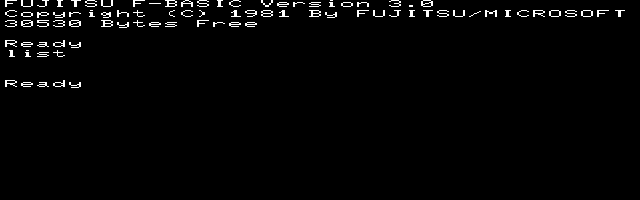
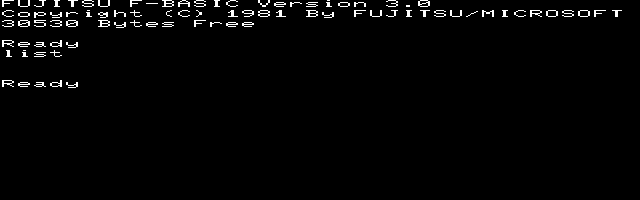
bless: eleven screenshots move, not one counter
Every row of the gate differs on SCREEN and no row differs on CNT --
counters.tsv comes out byte-identical and is not even in this commit. That is
the evidence that 22c586a and dcbf85c are display-path changes and nothing else:
the blanking fix deliberately leaves HBLANKn, and therefore SCASSEL and the
sub-CPU VRAM arbitration, exactly where they were.

Eight FM-7 rows and av-demo/av-wizardry4 move by the corrected raster phase: the
picture used to sit three pixels right of where it belongs in 640 mode and two
in 320. Checked against 77AVEMU rather than accepted on faith -- the new
boot-basic matches the reference F-BASIC banner on 99.8% of pixels at zero
offset where the old one peaked at dx=+3, and av-wizardry4 on 99.1% where the
old one peaked at dx=+3 too.

av-kohakuiro is the row worth looking at if this bless ever needs
re-justifying, and it is the uncomfortable one: **the old reference was a
picture of the bug.** It was chosen for the gate on "81% coverage, 18 colours --
the strongest exercise of the 320-mode plane path outside the demo", and that
scene existed only because the analog palette was stuck at its power-on identity
ramp. 77AVEMU renders this disk BLACK from its frame 500 to the end of a 30 M
step run. The new reference matches it on 100.0% of pixels with zero non-black
pixels; the old one had 104,246 against the reference's none.

So the row is now right and nearly worthless as a test, and the gate is one AV
[…]

diff --git a/TODO.md b/TODO.md
@@ -12,9 +12,13 @@ Reference material: `docs/REFERENCE.md` (read first), `docs/IO_MAP.md`,
 
 **Where it stands.** The **eleven-row** gate is green — `./run_tests.sh` in
 `vsim/` compares screenshots *and* counters against `shots-ref/`. FM-7 boots,
-Thexder runs, OS-9 reaches its shell. On the FM77AV side the 2019 demo matches
-77AVEMU plane-for-plane, Ys boots and draws, and **four titles that rendered
-nothing now render game art** (Deep Forest, both Luxsor disks, Psy-O-Blade).
+Thexder runs, OS-9 reaches its shell. On the FM77AV side **Deep Forest now
+matches 77AVEMU on 100.0% of pixels and the 2019 demo on 99.9%**, measured
+rather than eyeballed, after correcting a display phase that had the whole
+picture sitting three pixels right of where it belonged and finding that the
+analog palette had never accepted a write in its life. Ys boots and draws, and
+four titles that rendered nothing now render game art (Deep Forest, both Luxsor
+disks, Psy-O-Blade).
 
 **It fits and closes timing.** 23,293 / 41,910 ALMs (56%), 516 / 553 M10K
 (93%), positive slack in all five corners, `output_files/FM-7_MiSTer.rbf` built
@@ -39,13 +43,16 @@ the chip's real I/O ports. **The combined work ships as GPLv3** — see
      **Test an FM77AV title**, not an FM-7 one: only the AV routes the gameport
      through `$FD15`/`$FD16`. Twenty AV titles provably poll it; Dragon Buster is
      the pick because it already rendered before any of this work.
-2. **The AV rendering artifacts.** The four rescued titles draw with banding,
-   stripes and wrong palette. Four suspects are already eliminated — read that
-   list before starting, it will save a day.
+2. **The gate lost an AV row's worth of coverage.** `av-kohakuiro`'s reference
+   was a picture of the dead palette; the corrected render is a black screen
+   that matches 77AVEMU exactly and tests almost nothing. Replace it with a
+   title that genuinely renders — see below.
 3. **Six AV titles still render nothing**, in four distinct shapes, all recorded
    below rather than left to be re-derived.
 4. **The FM half of the YM2203 has never been compared to anything**, and its
    timers/`$FD17` IRQ path is only as good as one title's use of it.
+5. **The `$FD37` CPU access mask does not gate VRAM at all** — see below. No
+   title in hand has been shown to need it, but it is a real hole.
 
 **Ask the reference before theorising.** `refs/local/` holds a built 77AVEMU and
 its ROMs, gitignored but persistent, so no rebuild is needed:
@@ -368,51 +375,130 @@ than anything title-specific:
 | Psy-O-Blade | 3841 | **24536** — character portraits |
 | Luxsor (Disk 2) | 3790 | **17023** |
 
-with Daiva Story 2 (7510) and Silpheed (7410) newly partial. **The renders are
-not clean** — colour banding on Deep Forest, vertical stripes on Psy-O-Blade,
-wrong palette on Luxsor — so there is at least one video-path fault left. Diff
-the VRAM against the reference (`docs/TESTING.md`) rather than guessing at it.
+with Daiva Story 2 (7510) and Silpheed (7410) newly partial.
+
+(Those byte counts predate the display-phase and palette fixes below. All four
+still render; Deep Forest's shot at a fixed 2000 frames now depends on where its
+palette fade has got to, so compare against the reference rather than against
+this table. The sweep has not been re-run since.)
 
 Six remain blank: Woody Poco, Shounen Mike, Pro Yakyuu Fan, FM77AV demo, In the
 Dream, Little Box.
 
-### The rendering artifacts are in the sub-CPU VRAM write path
+### The rendering artifacts were the display phase and a dead palette
 
-The four rescued titles draw, but with banding, stripes and wrong palette. A
-VRAM diff against the reference (`FM77AV_VRAM_DUMP` / `FM7_VRAM_DUMP`, method in
-`docs/TESTING.md`) on Deep Forest, **with both machines on the same title screen
-so the comparison is legitimate** (trap 20):
+Two faults, both found by comparing against 77AVEMU in **palette-nibble space**
+rather than by eye. (Byte-exact pixel comparison is useless between the two:
+`PAL.v` expands a 4-bit gun level with CSP's `{n,$F}` and 77AVEMU replicates the
+nibble, so every non-black pixel differs. Both keep the level in the high
+nibble, so `>>4` on each side makes the comparison meaningful.)
 
-* all twelve 8 KB slices differ
-* ours has consistently **more** non-zero bytes than the reference — bank0 B0
-  3504 vs 2548, bank1 R1 7444 vs 6360, ~15% more throughout
+1. **The whole picture sat to the right of where it belonged** — three pixels in
+   640 mode, two in 320. `HBLANK` came straight off MB60H010's `xx`, but a pixel
+   arrives several stages later: raster address, CRTRAM's synchronous read,
+   `SFTLODn`'s deliberate settle delay, then PAL. The two modes differ by one
+   because their paths do: 640 goes `SFT -> qh -> grb`, 320 goes
+   `shift-register -> palette RAM output`. Fixed by delaying the display
+   blanking to match, which leaves `HBLANKn` (and so `SCASSEL`, the VRAM
+   arbitration) untouched: **every counter in the eleven-row gate is byte-
+   identical across the change and only screenshots moved.**
+2. **The FM77AV analog palette never took a single write.** `PLTREGn` is the
+   schematic decode for `$fd38-$fd3f`, and `PAL.v` asked for
+   `~PLTREGn && ~MADDRBUS[3]` — `MADDRBUS[3]` high and low at once. The table
+   stayed at its power-on identity ramp for the life of the AV support.
 
-So we are setting pixels that should not be set, in every plane and both banks.
+Measured, not inferred. Pixels matching 77AVEMU, before → after, comparing at
+points where both machines are showing the same thing:
 
-**Four suspects are already eliminated — do not re-check them:**
+| title | mode | before | after |
+|---|---|---|---|
+| Deep Forest | 320 | 20.8% | **100.0%** (63991 / 64000) |
+| 2019 demo | 320 | 10.8% | **99.9%** |
+| Wizardry IV | 640 | 90.7% | **99.1%** |
+| F-BASIC banner (FM-7) | 640 | 97.5% | **99.8%** |
+| Psy-O-Blade | 640 | — | **96.6%** |
+
+and, for the phase alone, a third measurement that involves no reference at all:
+`tools/raster_phase.py` reconciles the core's own VRAM with its own screenshot,
+and went from peaking one column out to 99.1% at zero offset.
+
+**The constant was nearly wrong by one.** The first offset sweep ran ±2 and
+reported the 640-mode error as 2, because the search window ended exactly where
+the answer was. Widening it to ±5 showed a sharp peak at 3. Size the window
+from what you are willing to be wrong about.
+
+Why the palette bug survived so long is worth keeping: a 4096-colour photograph
+is normally displayed through very nearly the identity ramp, so Deep Forest,
+Luxsor and Psy-O-Blade all looked *plausible* with the table dead. Only software
+that programs a genuinely different map exposes it — the demo's colour chart
+does, and it rendered as the raw plane code.
+
+**The earlier "we set pixels that should not be set, ~15% more non-zero bytes in
+every plane" was wrong**, and worth recording as the trap it was: our VRAM dump
+was taken at a point where the reference had already drawn the "DEEP FOREST"
+logo — a black box over the landscape — and we had not. The extra bytes were the
+landscape the reference had painted over. The giveaway was that the mismatching
+rows were 101-138 and nothing else: exactly the logo box, not the "every plane
+and both banks" the byte counts suggested.
+
+**Still eliminated, do not re-check:**
 
 * **The MB61VH010 drawing ALU.** `--trace-av-video` over 200 frames: 9356
   `SUBVRAM`, **0 `ALUW`, 0 `AVVRAM`**. Deep Forest never uses it.
-* **The 320-mode sub-CPU address transform.** `MB60H010.v:112` `SUBRA_320`
-  preserves bit 13 and wraps the low 13 bits, which is the same shape as
-  `AVMEM.v`'s `vram_addr_320` for the main aperture. Correct as written.
+* **The 320-mode sub-CPU address transform.** `MB60H010.v` `SUBRA_320` preserves
+  bit 13 and wraps the low 13 bits, matching 77AVEMU's `TransformVRAMAddress`
+  (`fm77avcrtc.h:219`) case by case.
 * **The picture width.** The reference emits 320x200 PNGs in 320 mode; this core
-  renders the same mode pixel-doubled to 640x200 by design. Not a fault.
-* **"The title never sets 320 mode".** It does — `$fd12 <- $40` at frame 202,
-  `$00` at 338, `$40` again at 344, so 320 mode is on at the end. A 200-frame
-  sample showed zero writes and was simply too short a window (trap 20 again).
+  renders the same mode pixel-doubled to 640x200 by design. Not a fault, and the
+  doubled pair provably never disagrees.
 
-What is left: the scroll offset (`VOFFSET`), the plane/bank selection, or the
-possibility that the two dumps are at different points of an animated title —
-which has to be excluded first, since "more bytes" is also what "further along"
-looks like.
+**Deep Forest was never "stuck", either.** With the palette dead it snapped to
+full brightness the instant VRAM was drawn and then sat unchanged from frame 900
+to 1500, which read as a stall. It is in fact fading in through the palette,
+synchronised to `$fd12` vblank polls at `pc=$622a`: black at 900, half up at
+1200, complete at 1500, and that frame is the 100.0% row above. What remains
+open is only the title logo, which the reference draws between its frames 1200
+and 2100 and we do not.
 
-`--trace-av-video` says where they come from, and it rules out most of the video
-back end: over 200 frames Deep Forest issues **9356 `SUBVRAM` writes, 0 `ALUW`,
-0 `AVVRAM`**. It draws entirely through the sub CPU's own VRAM writes — no
-drawing ALU, no main-CPU MMR aperture. So the fault is in the sub-CPU VRAM write
-path: the 320-mode address transform, the `$FD37` plane-access mask, or the
-scroll offset. It is **not** the MB61VH010, which is where the eye is drawn.
+**`av-kohakuiro`'s blessed screenshot was a picture of the bug, and its
+replacement is a black screen.** It was picked for the gate on "81% coverage, 18
+colours — the strongest exercise of the 320-mode plane path outside the demo".
+That picture only existed because the palette was stuck at the identity ramp:
+77AVEMU renders this disk black from its frame 500 to the end of a 30 M-step
+run, and our new shot matches it on **100.0%** of pixels with zero non-black
+pixels, where the old blessed one had 104,246 against the reference's none.
+
+So the row is now correct and nearly worthless as a test. **The gate needs a
+different second AV title** — one that renders real graphics *and* is stable at
+the shot frame with a live palette. Deep Forest around frame 1500 and
+Psy-O-Blade are the candidates; both were measured against 77AVEMU above. Pick
+one by re-checking it at two frame counts first, which is the rule that put
+Kohakuiro here in the first place.
+
+**Luxsor is the one still visibly wrong.** It renders its pyramid scene in
+garish green and red at frame 1980, and no reference frame in a 30 M-step run
+matches it above 5.6%. Treat that number with care, though — the reference is on
+a completely different scene (a dialogue screen) by then, so the two are not
+aligned and the comparison is not yet evidence of a video fault (trap 20). Get
+them onto the same screen first.
+
+### `$FD37`'s CPU access mask reaches nothing
+
+`FLAGS.v` decodes it correctly (`VPAGE1n/2n/3n` = bits 0-2) and `SUBCRTADDR.v`
+folds it into `SVCASBn/SVCASRn/SVCASGn` — **which `CRTRAM.v` declares as inputs
+and never uses.** The sub CPU's VRAM writes are gated by `SVWEn`, which carries
+no mask at all, and reads are unmasked too. 77AVEMU suppresses the write and
+returns `$FF` on the read (`fm77avmemory.cpp:830-878` and `:539-575`).
+
+Three things to know before fixing it. `SVCASBn` as written is
+`SBLANKn & SDRAMV1n & SCASSEL`, and `SBLANKn` *is* `~SCASSEL`, so all three are
+identically zero — wiring them up as they stand would be wrong; pass the three
+mask bits into `CRTRAM` instead, the way `core.v` already passes
+`VPAGE_MASK` to `AVHDRAW`, which does honour it (`plane_mask = bank_mask |
+VPAGE_MASK`, matching 77AVEMU `fm77avcrtc.cpp:411`). The sub CPU addresses one
+gun at a time, so the mask can only ever suppress, never redirect. And no title
+in hand is known to need this: Deep Forest never touches `$fd37` in 428 frames.
+It is a real hole with a citation, not a lead.
 
 ### $FD1E is a drive-mapping register and we do not implement it
 

diff --git a/docs/REFERENCE.md b/docs/REFERENCE.md
@@ -431,6 +431,60 @@ confident wrong answer at least once:
     interrupt can make a title look *worse* (it ran away where it used to hang), which is
     progress, not regression.
 
+25. **A screenshot suite whose references are its own output is blind to anything that moves
+    the WHOLE picture.** The core displayed every frame right of where it belonged — three
+    pixels in 640 mode, two in 320 — for the life of the project. Eleven blessed screenshots and a
+    350-title sweep could not see it, because the reference shifted with the core. It took a
+    pixel comparison against 77AVEMU to surface, and it showed up as "colour banding" and
+    "vertical stripes" on dithered 4096-colour art — i.e. as a *palette* complaint, which is
+    where the eye goes and where two sessions of investigation went. **A suite can only catch
+    what it compares against something it did not produce.** `tools/raster_phase.py` now asks
+    the question directly, and without a reference emulator: predict each pixel's code from the
+    core's own VRAM dump and find the offset at which one palette explains its own screenshot.
+    A corollary worth its own line: **a bench over the modules is not the assembled core.** A
+    standalone bench over MB60H010 + CRTRAM + PAL — the real modules, wired as `core.v` wires
+    them, sampled as `sim.v` samples — agreed with 77AVEMU in 320 mode and was one pixel out in
+    640, i.e. it would have shipped the bug it was written to catch. Three measurements of the
+    assembled core agreed with each other and against it.
+26. **A search window that ends where the answer is reports the edge of the window.** The
+    offset sweep that found the display shift ran dx from -2 to +2 and returned "+2, 94%",
+    which looks like a clean peak. It is not: at ±5 the real peak is +3 at 99%, and +2 was
+    simply the largest value the sweep was allowed to return. Two other measurements were
+    already built on that wrong constant before the widened sweep caught it. Always sweep past
+    the apparent maximum and check the curve falls off on BOTH sides.
+27. **Comparing pixels between two emulators requires agreeing on the DAC first.** `PAL.v`
+    expands a 4-bit gun level with CSP's `{n,$F}` (1 -> `$1F`); 77AVEMU replicates the nibble
+    (1 -> `$11`). Neither is wrong, but every non-black pixel differs, so a byte-exact
+    comparison reports 100% mismatch and carries no information — which reads exactly like a
+    catastrophic video fault. Both keep the level in the HIGH nibble, so compare `>>4` on each
+    side. In nibble space the same pair of images went from "100% different" to 96.8% identical.
+28. **"Ours has more non-zero bytes than the reference" is a claim about alignment until you
+    have excluded it.** A Deep Forest VRAM diff showed ~15% more non-zero bytes in all twelve
+    planes and was written up as "we set pixels that should not be set". It was the title
+    logo: the reference had drawn a black box over the landscape and this core had not yet.
+    The reference's own screenshots settle it for free — `--shot-every` on 77AVEMU takes
+    seconds and shows whether the picture is still changing at the frame you dumped.
+29. **A blessed screenshot can be a picture of the bug, and the prettier it is the more it
+    looks like coverage.** `av-kohakuiro` earned its place in the gate as "81% coverage, 18
+    colours — the strongest exercise of the 320-mode plane path outside the demo". The scene
+    was an artifact of a palette stuck at the identity ramp; 77AVEMU renders that disk BLACK
+    from its frame 500 onward, and the corrected core matches it on 100.0% of pixels with zero
+    non-black pixels. A reference nobody has compared against a second implementation is a
+    record of what the core did, not of what the machine does — and a rich-looking one buys
+    false confidence in exactly the path it fails to test.
+30. **A register file can be write-only by construction and nothing complains.** The FM77AV
+    analog palette at `$FD30-$FD34` never took a single write: `PAL.v` asked for
+    `~PLTREGn && ~MADDRBUS[3]` where `PLTREGn` is itself `... & MADDRBUS[3]`, so the condition
+    was unsatisfiable. 12,288 writes from one title landed nowhere and the table stayed at its
+    power-on ramp. Verilator does not warn about an unsatisfiable condition any more than it
+    warns about an undriven wire (trap 23). **Read the table back.** `FM7_PAL_DUMP` did it in
+    one run: 4096 of 4096 entries still at the reset value.
+31. **A declared, DRIVEN signal that nothing consumes is the same bug as trap 23.** `CRTRAM.v`
+    takes `SVCASBn/SVCASRn/SVCASGn` as inputs and never mentions them again, so `$FD37`'s CPU
+    access mask gates no VRAM access at all. An audit for module inputs that appear exactly
+    once — in the port list — is worth re-running after any refactor; it found this plus
+    `SADRSEL` into `MB60H010` and `SVDHALT` into `FLAGS`.
+
 And one more: **a null result from one title says nothing about a register, only about that
 title** — Ys reads `$fd04` once in 900 frames; OS-9 drives the same path 578 times.
 

diff --git a/docs/TESTING.md b/docs/TESTING.md
@@ -384,6 +384,57 @@ upper-case names (`FBASIC30.ROM`, `INITIATE.ROM`, `SUBSYS_A/B/C.ROM`,
 20 M instructions. Diffing at mismatched points shows the untyped text as a
 whole-plane difference.
 
+`FM7_PAL_DUMP` writes the FM77AV analog palette as 4096 lines of
+`index blue red green`, taken at the same `--av-dump-frame`. It is the read-back
+that catches a palette which is accepting no writes at all — replay the
+`$fd30-$fd34` writes out of a `--trace-io` log and diff the two tables. That is
+how the dead `$FD30` decode was found, and "every entry still equals its index"
+is what a write-only register file looks like.
+
+### Comparing pixels with 77AVEMU: use nibbles, not bytes
+
+The two disagree on the DAC. `PAL.v` expands a 4-bit gun level with CSP's
+`{n,$F}`, 77AVEMU replicates the nibble; every non-black pixel therefore differs
+and a byte-exact comparison reports 100% mismatch whatever the truth is. Both
+keep the level in the **high** nibble, so shift each side right by 4 first.
+
+Sweep a horizontal offset while you are at it. A whole-picture shift is
+invisible to this project's own screenshots — they are the core's output, so
+they shift with it — and it presents as colour noise on dithered art, not as a
+displacement.
+
+### Checking the raster phase without a reference at all
+
+```sh
+cd vsim
+FM7_VRAM_DUMP=/tmp/v.bin ./obj_dir/Vemu --headless --machine fm77av \
+    --disk '../software/D77/Wizardry IV (FM77AV) (Disk A).d77' \
+    --stop-at-frame 620 --av-dump-frame 600 \
+    --screenshot 600 --screenshot-name /tmp/s.png
+../tools/raster_phase.py /tmp/v.bin /tmp/s.png          # add --320 for 320 mode
+```
+
+It predicts each pixel's palette code from the core's own VRAM and asks which
+horizontal offset lets a single palette explain the screen. The answer must be
+`dx=0`; anything else is a displaced picture. Use a title that is *static* at
+the dump frame and does not scroll (Wizardry IV for 640, Deep Forest for 320).
+
+**It only discriminates well in 640 mode.** Eight colour codes over a whole
+screen means a wrong offset has to reuse a code on a differently-coloured pixel,
+and it does, constantly — the spread is 99% at the right offset against 89-94%
+either side. In 320 mode there are thousands of codes, most of them nearly
+unique to one pixel, so *every* offset scores about 99.97% and the peak means
+little. Check 320 alignment against 77AVEMU instead, and note that a one-pixel
+error there is visible as the doubled pair disagreeing with itself rather than
+as a displacement.
+
+**Measure the assembled core, not a bench over its modules.** A standalone
+Verilog bench instantiating MB60H010 + CRTRAM + PAL, wired as `core.v` wires
+them and sampled as `sim.v` samples, still reported the 640-mode picture one
+column left of where the assembled core actually put it — it agreed with the
+reference on 320 and disagreed on 640, and would have baked in a one-pixel
+error. It is deliberately not in the tree.
+
 `--trace-av-video [file]` adds the AV video write log: main-CPU aperture writes
 (`AVVRAM`), sub-CPU VRAM writes (`SUBVRAM`), drawing-ALU read-modify-writes
 (`ALUW`, with the bytes read and written), main-CPU MMR writes into the sub I/O
